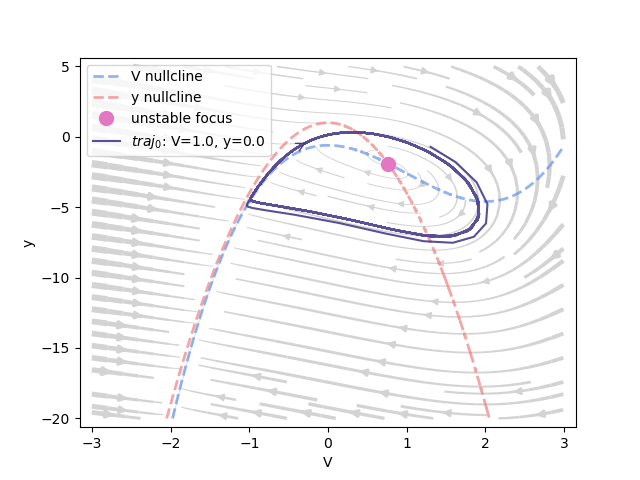
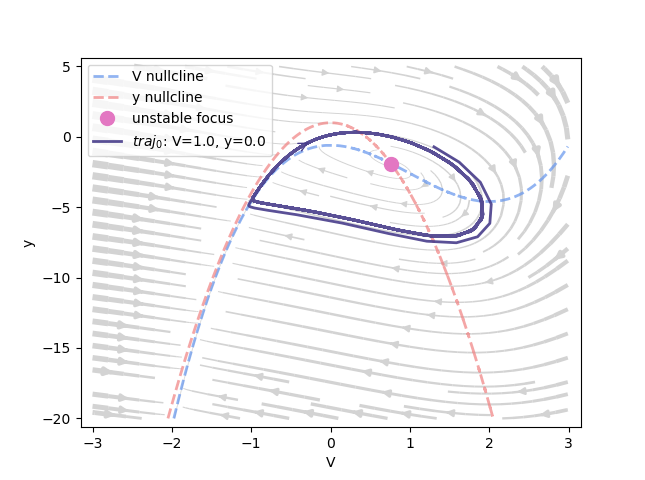
modify 5 files

diff --git a/neuron_models/Izhikevich_model.py b/neuron_models/Izhikevich_model.py
@@ -18,8 +18,7 @@ class Izhikevich(bp.NeuGroup):
 
 		# 初始化变量
 		self.V = bm.Variable(bm.random.randn(self.num) - 70.)
-		self.u = bm.Variable(bm.ones(self.num))
-		self.w = bm.Variable(bm.zeros(self.num))
+		self.u = bm.Variable(bm.zeros(self.num))
 		self.input = bm.Variable(bm.zeros(self.num))
 		self.t_last_spike = bm.Variable(bm.ones(self.num) * -1e7)  # 上一次脉冲发放时间
 		self.refractory = bm.Variable(bm.zeros(self.num, dtype=bool))  # 是否处于不应期

diff --git a/neuron_models/HindmarshRose_analysis.py b/neuron_models/HindmarshRose_analysis.py
@@ -79,6 +79,6 @@ phase_plane_analyzer.plot_vector_field(plot_style=dict(color='lightgrey'))
 phase_plane_analyzer.plot_trajectory(
 	{'V': [1.], 'y': [0.], 'z': [1.4]},
 	duration=100.,
-	color='darkslateblue', linewidth=1.5, alpha=0.9,
+	color='darkslateblue', linewidth=2, alpha=0.9,
 	show=True
 )
